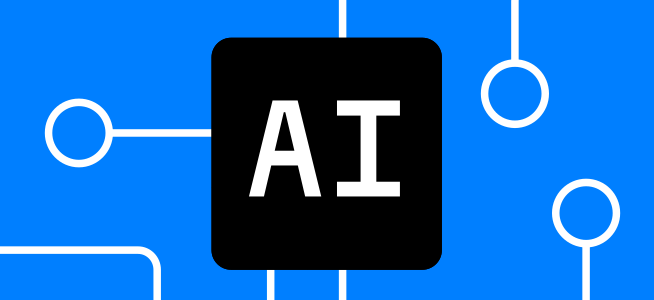
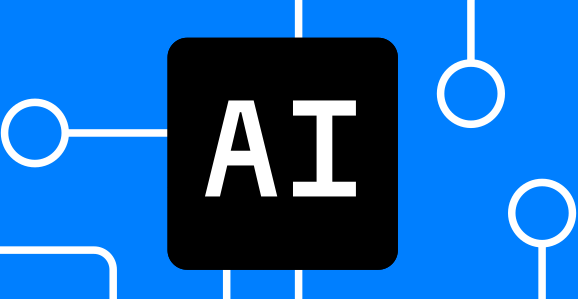
Fix

diff --git a/_pages/index.md b/_pages/index.md
@@ -73,7 +73,7 @@ permalink: /
       <tr>
         <td style="width: 25%; height: 200px; vertical-align: middle; text-align: center;">
             <img src="/assets/dc_engine/img/ml_ai.png" alt="DC Engine" 
-                 style="max-width: 100%; height: auto; display: inline-block;" />
+                 style="border-radius: 25px; max-width: 100%; height: auto; display: inline-block;" />
         </td>
         <td style="width: 75%; vertical-align: middle; padding-right: 25px; text-align: justify; line-height: 1.5;">
             <p>We process traffic and extract the maximum possible number of fields/properties/metrics, after which we generate a granular dataset for training your AI systems. The set of produced information is constantly updated with the release of new product versions, which expand the list of supported protocols, fields, and metadata.</p>